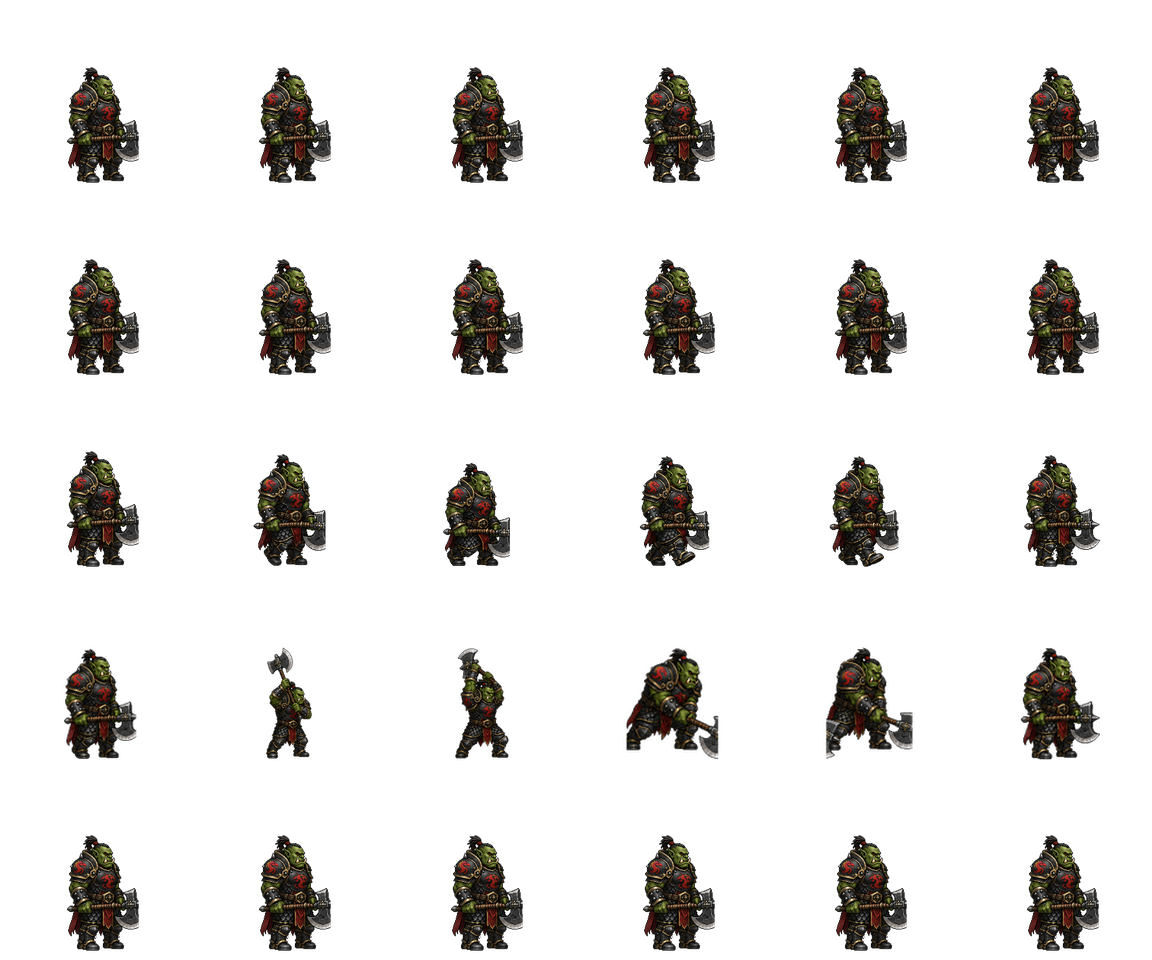
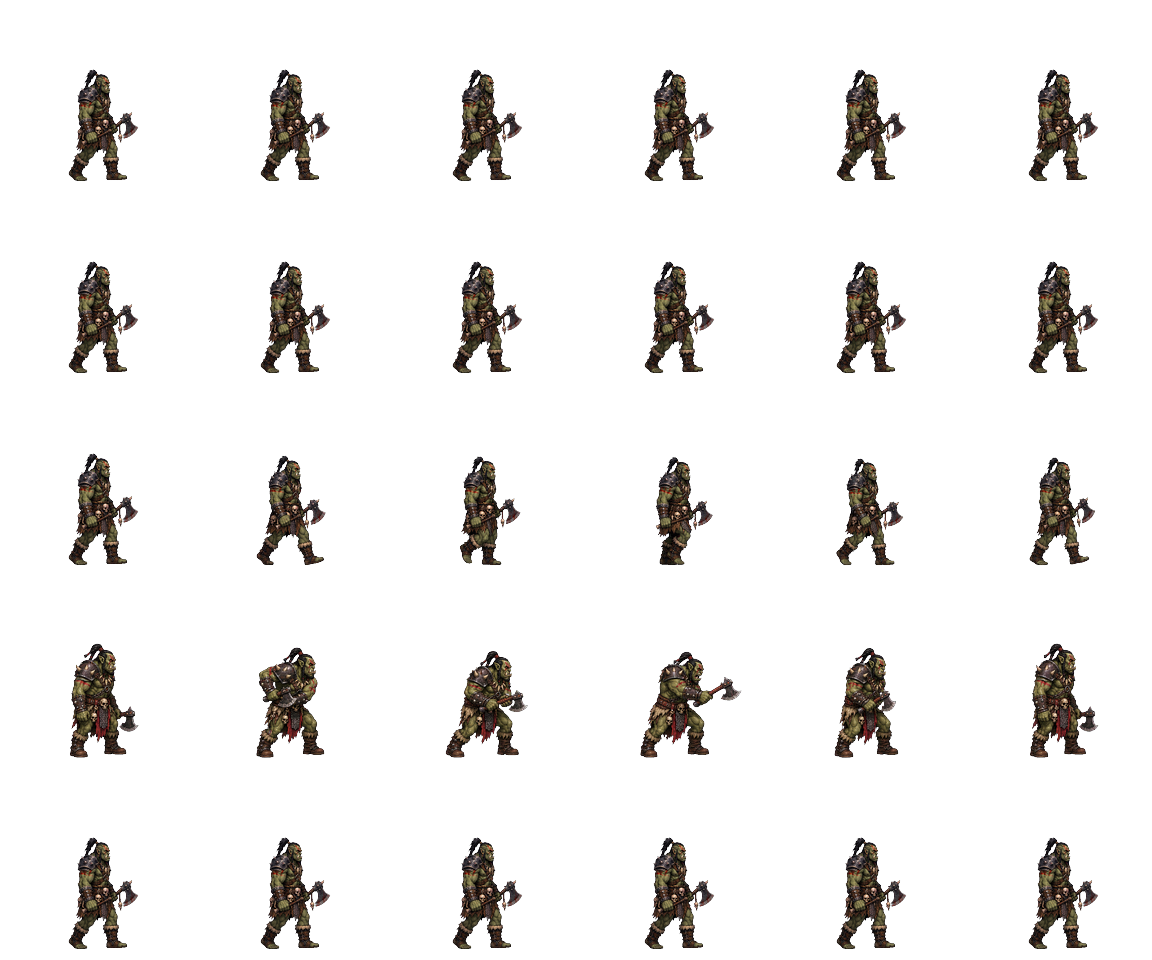
sprite: ガロックを codex1 新テンプレ素材 (orc-chieftain) へ差替
codex1 が「基準コマ統一 + %フレーミング」(tools/sprite_batches/README_scale_rules.md)
で描き直した第3陣素材の第1号。素材段階で既に walk 体高 506.5 / attack 492.5 = -2.76%
と WARN 閾値内で、接地線も全12コマ一致していた (旧素材は -33%〜+23%)。

- packer: walk_dir/attack_dir に glob パターンを書けるよう _frame_glob を新設。
  第3陣は walk と attack を同一ディレクトリに出すため、ディレクトリを渡すと
  12枚拾って弾かれる。既存エントリは無影響 (--all 再パックで他31シートはバイト不変)。
- char_ratio 0.58785 は bbox 実測 (0.604167) でなく体基準の逆算 + 出力実測で1回校正。
  現行シートのかさ上げ 1.121 と新素材の 1.080 が 3.8% ずれるため bbox 実測は使えない。
- displaySize 120 据置 = 当たり判定不変。画面上の体高も 103.5px で完全に不変。

検証: driver_garrock_swap 26/26 PASS (負のコントロール HEAD は 21/26)。
check_attack_scale --fail-on-warn exit 0 (total=76 OK=71 WARN=0 / garrock +0.48%)。
分身チェックの row3 col0/col5 clusters=2 は腕を伸ばして持つ戦斧の柄 (拡大目視で確認)。

diff --git a/tavern.html b/tavern.html
@@ -1979,10 +1979,10 @@
     <div id="changelogBox">
       <div class="changelogHeader">📜 更新情報</div>
       <ul class="changelogList">
+        <li><b>オーク将軍ガロックの姿を一新</b> — 砦の主が、髑髏を提げた戦斧使いの荒々しい姿になった。</li>
         <li><b>大型モンスターと僧侶の攻撃も実寸に</b> — キメラやグリフォン、アンバーハルク、残影の獣、ミミックなどが攻撃の瞬間だけ一回り小さく見えていたのを直しました。僧侶のメイス攻撃も歩く姿と同じ背丈になります。</li>
         <li><b>攻撃モーションの大きさのブレを解消</b> — ゴブリンやオーク、リザードマン、古代ハイドラなど10種で、攻撃した瞬間に体が一回り縮んで見える現象を直しました。</li>
         <li><b>石の魔物には魔法の武器を</b> — 盗賊の不意打ちやドワーフの斧など、これまで素通りしていた技も石の巨人には弾かれ、ガーゴイルには半減するようになった。</li>
-        <li><b>ガーゴイルは石の体で刃を鈍らせる</b> — 魔法の武器でなければ受けるダメージが半分になる。</li>
       </ul>
     </div>
     <script>

diff --git a/index.html b/index.html
@@ -6050,11 +6050,13 @@
         xp: 240,
       },
       // ボス: オーク将軍ガロック (Sce4 玉座、専用シート 192px ボス詳細)
+      // 2026-07-29: codex1 orc-chieftain (新テンプレ「基準コマ統一 + %フレーミング」の第1号) へ差替。
+      // displaySize 120 据置 = 当たり判定不変。画面上の体高も 103.5px/cell192 で不変 (台帳 codex1_sprites.json)。
       garrock: {
         name: "オーク将軍ガロック",
         flavor: "砦を支配する戦鬼、ドラゴンの紋章を帯びた炎の支配者の将",
         badge: "👹",
-        sprite: "assets/garrock_anim.png?v=1",
+        sprite: "assets/garrock_anim.png?v=2",
         sheetW: 1152, sheetH: 960,
         frameW: 192, frameH: 192, cols: 6, rowOffset: 0,
         displaySize: 120,

diff --git a/tools/pack_codex1_sprites.py b/tools/pack_codex1_sprites.py
@@ -73,14 +73,28 @@ DEFAULT_CODEX1_ROOT = r"C:\Users\PC_User\Desktop\codex1\assets"
 ALPHA_THR = 64
 
 
+def _frame_glob(spec):
+    """フレーム指定 (ディレクトリ or glob パターン) を glob パターンへ正規化する。
+
+    basename に "*" を含めば spec 自体をパターンとして扱い、含まなければ従来どおり
+    <dir>/*frame-*.png を組み立てる。glob の "*" は区切り文字を跨がないので、
+    パターンは basename だけに掛かる。
+    """
+    return spec if "*" in os.path.basename(spec) else os.path.join(spec, "*frame-*.png")
+
+
 def _load_frames(action_dir, n_frames=6):
     """<dir>/*frame-NN.png を RGBA で読み込む。見つからなければ空リスト。
 
     第2陣の素材はフレーム名が 4 通り (-safe- / -v2-safe- / -matched-safe- /
     -large-matched-safe-) あるため、名前を組み立てず glob で拾う。同ディレクトリの
     -source / -transparent / -sheet / -size-check は "frame-" を含まないので除外される。
+
+    第3陣 (…-walk-attack-right-6-aligned) は walk と attack を **同一ディレクトリ** に
+    出すので、ディレクトリを渡すと 12 枚見つかって弾かれる。この形式は台帳側で
+    "<dir>/*walk*frame-*.png" のように glob パターンを直接書いて分離する。
     """
-    paths = sorted(glob.glob(os.path.join(action_dir, "*frame-*.png")))
+    paths = sorted(glob.glob(_frame_glob(action_dir)))
     if len(paths) != n_frames:
         print(f"  ! expected {n_frames} frames under {action_dir}, found {len(paths)}")
         return []
